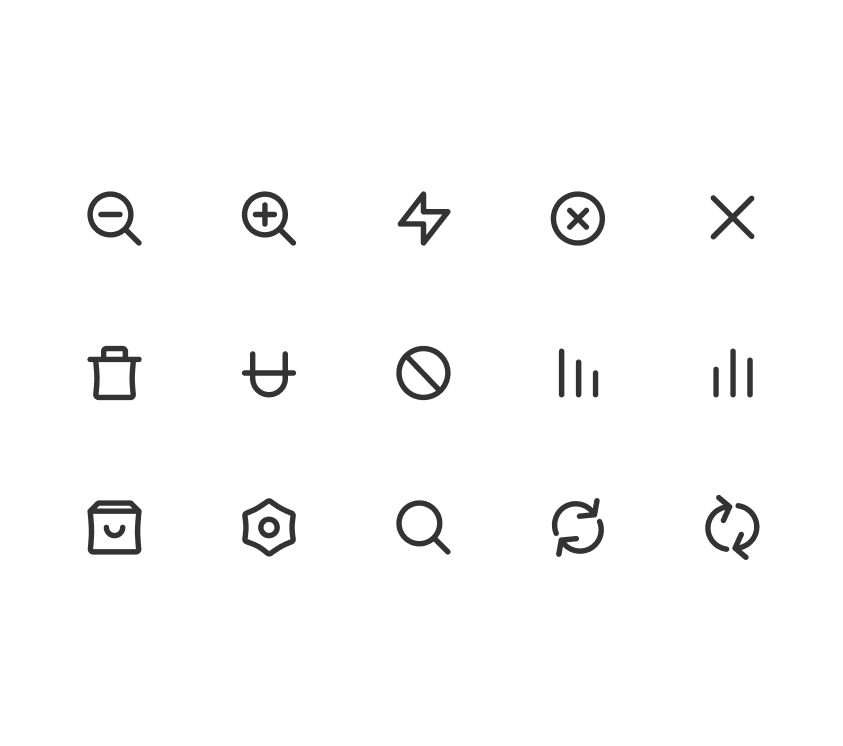
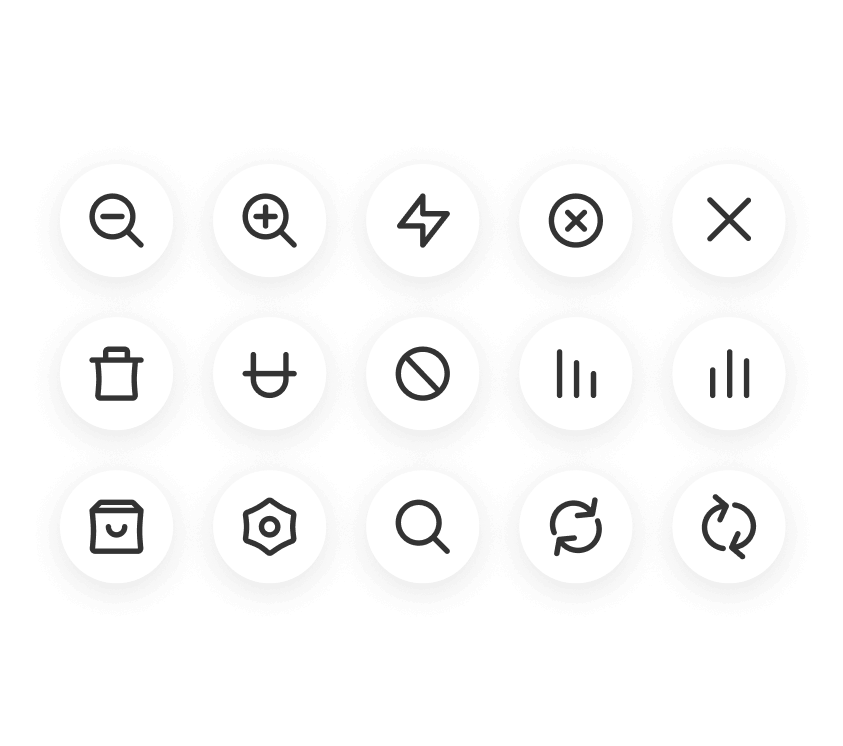
Update thumbnail, nav-mobile, header, and others"

diff --git a/src/assets/styles/components/_button.scss b/src/assets/styles/components/_button.scss
@@ -18,12 +18,13 @@
 	display: inline-flex;
 	flex-direction: row;
 	justify-content: center;
+	align-items: center;
 	border-radius: 4px;
 	margin: 0px;
 
 	.icon {
-		width: 24px;
-		height: 24px;
+		width: 20px;
+		height: 20px;
 	}
 
 	&.btn-outline {

diff --git a/src/assets/styles/components/_nav-mobile.scss b/src/assets/styles/components/_nav-mobile.scss
@@ -110,7 +110,7 @@
 			}
 
 			&:hover {
-				box-shadow: 0px 0px 0px 2px var(--background-default);
+				box-shadow: 0px 0px 0px 2px var(--text-primary);
 			}
 		}
 	}
